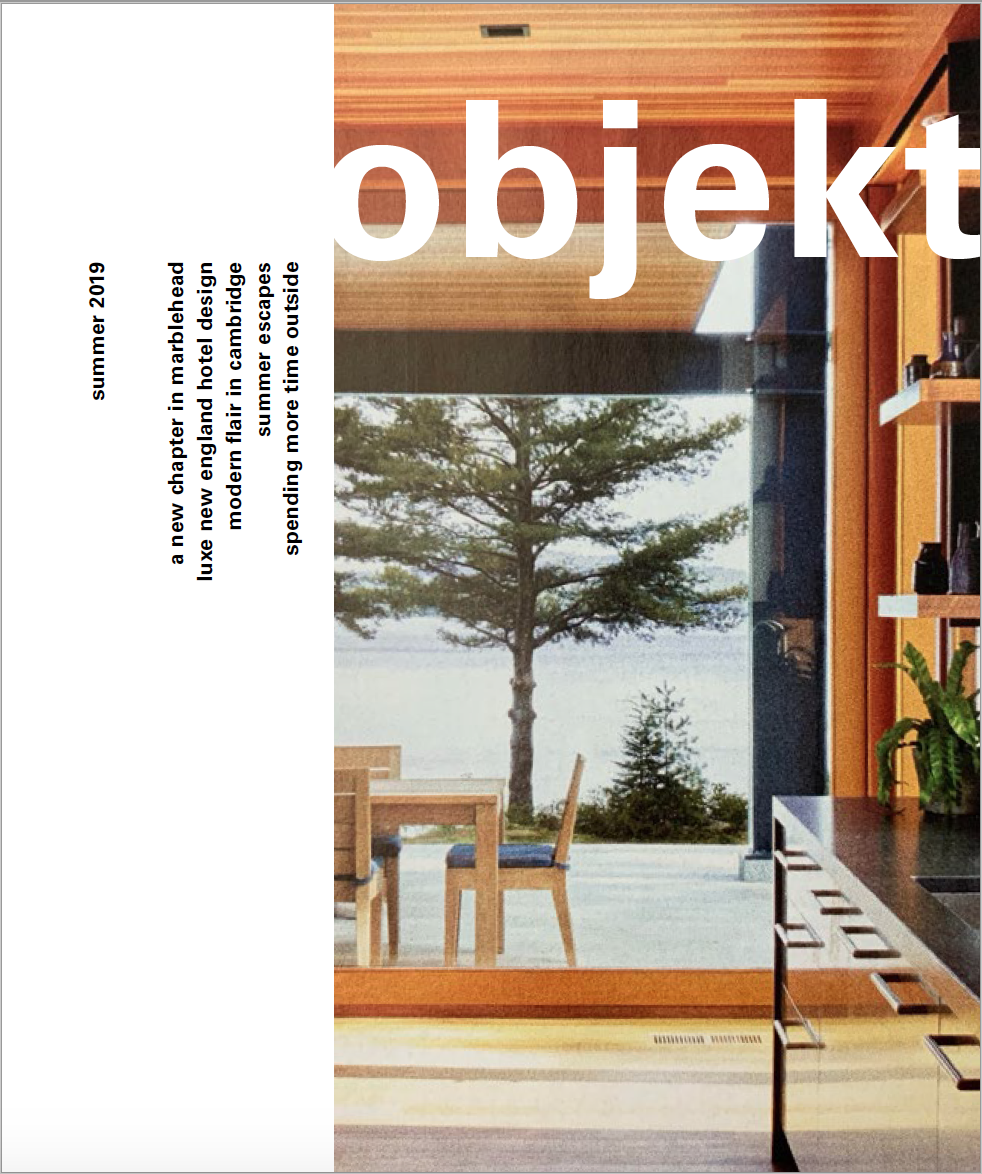
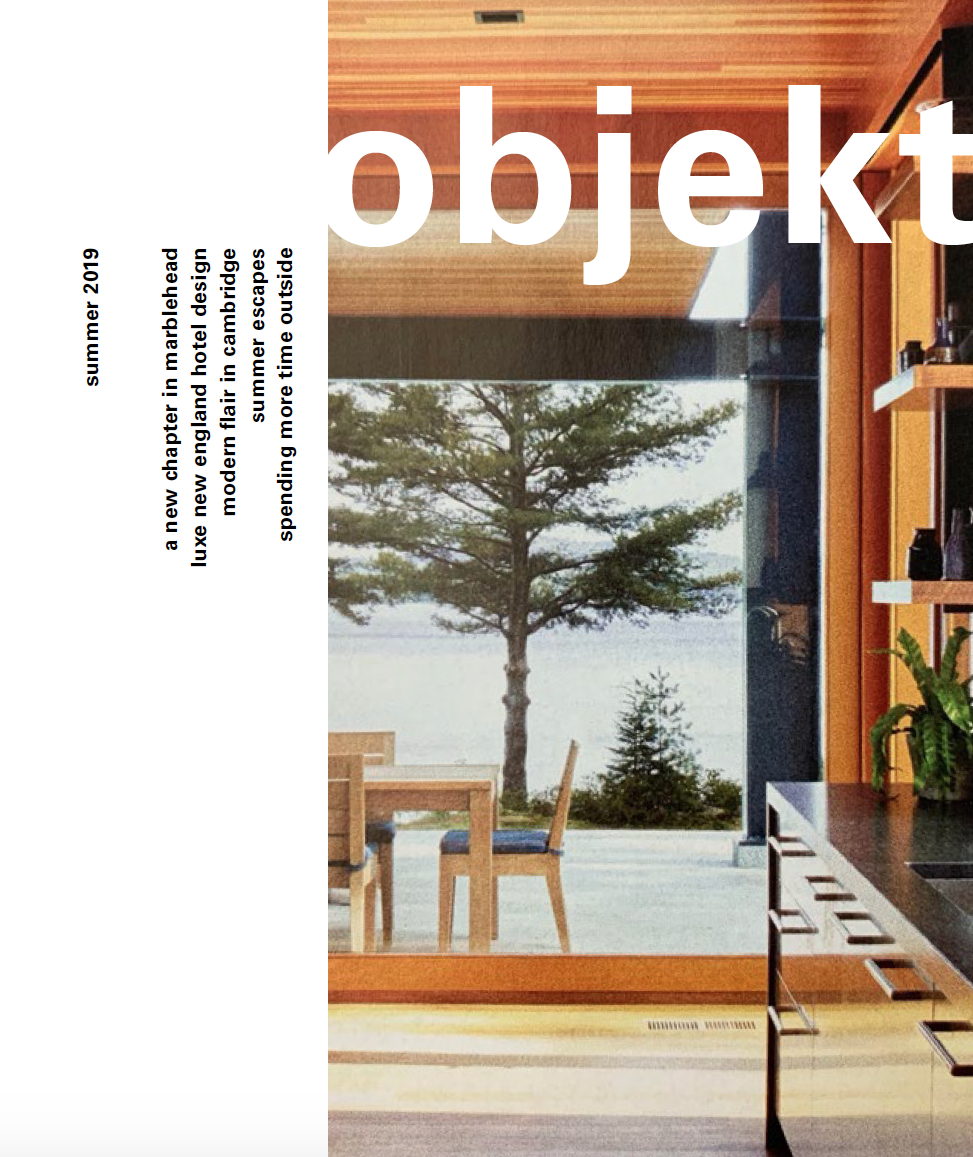
try now

diff --git a/pages/typography.html b/pages/typography.html
@@ -93,7 +93,7 @@
           <div class="row">
             <div class="col-md-12 mx-auto">
                <a href="/img/typemagazinefull.pdf" target="_blank">
-            <img src="/img/typemagazinecover.png" class="center" style="width:370px;height:600px;">
+            <img src="/img/typemagazinecover.png" class="center" style="width:324px;height:385px;">
             </a>
             <p><b>Objekt Magazine - August 2019</b>
             <br>Magazine for my Typography 2 class</p>
